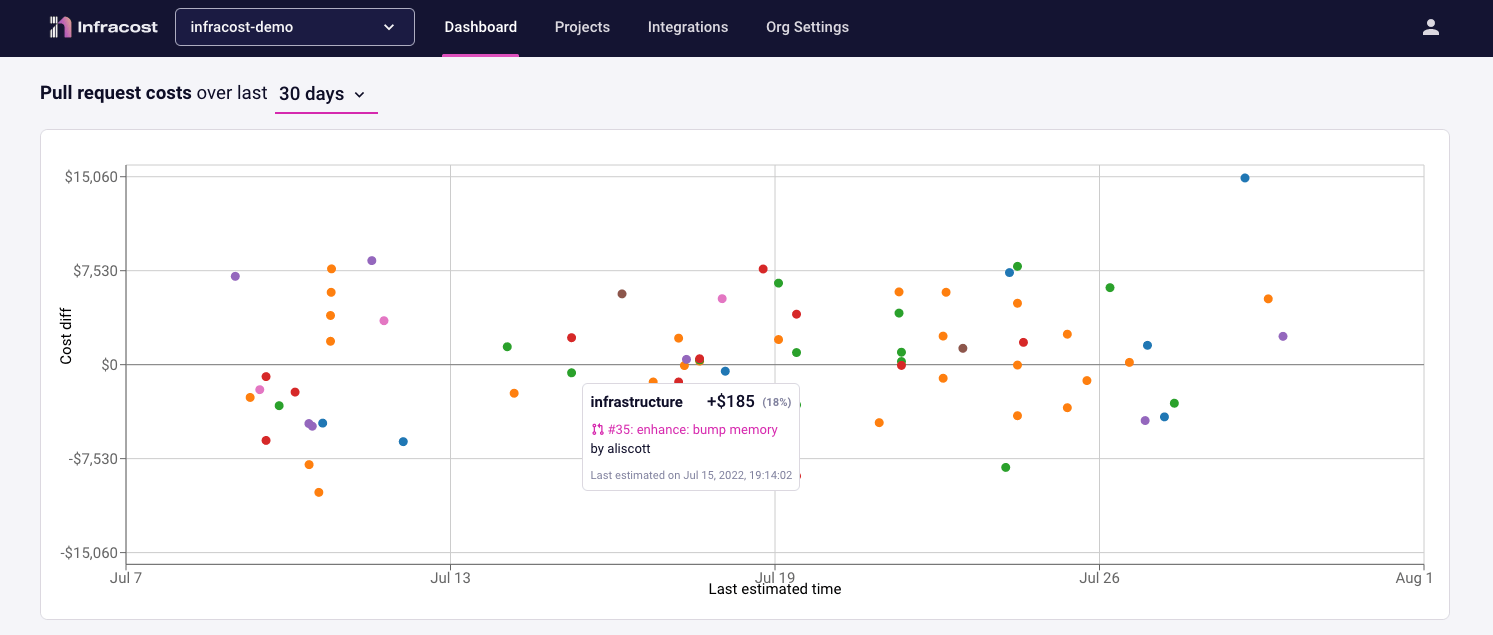
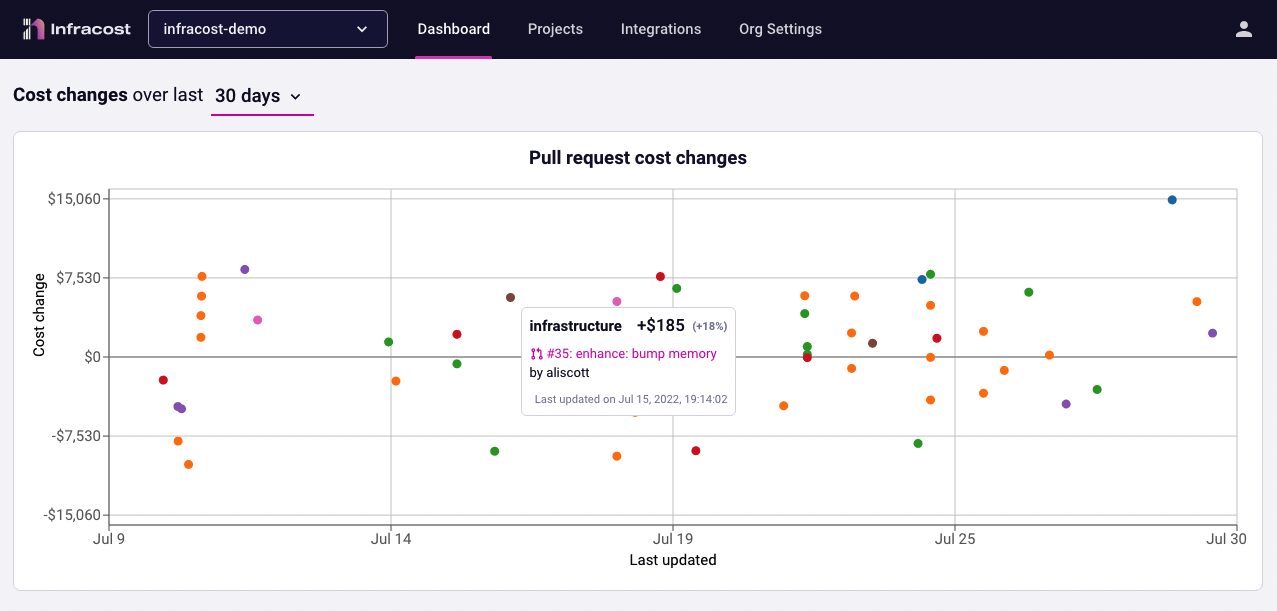
docs: update pricing page

diff --git a/src/pages/pricing.js b/src/pages/pricing.js
@@ -71,22 +71,26 @@ function Pricing() {
                 </li>
                 <li>
                   <span className="icon primary"><Check size={18} /></span>
-                  <span>Support for Enterprise Agreement discounts and custom price books</span>
+                  <span>Custom price books and discounts</span>
                 </li>
                 <li>
                   <span><b>Coming soon:</b></span>
                 </li>
                 <li>
                   <span className="icon primary"><Check size={18} /></span>
-                  <span><a href="https://github.com/infracost/infracost/issues/1727">Notification of budget-breaking pull requests</a></span>
+                  <span>Team management</span>
                 </li>
                 <li>
                   <span className="icon primary"><Check size={18} /></span>
-                  <span>Best practice recommendations directly in pull requests</span>
+                  <span>Weekly email digests and notifications</span>
+                </li>
+                <li>
+                  <span className="icon primary"><Check size={18} /></span>
+                  <span>Recommendations in pull requests</span>
                 </li>
               </ul>
               <div className="action">
-                <a href="/docs/infracost_cloud/get_started" className="button primary">Get started</a>
+                <a href="/docs/infracost_cloud/get_started" className="button primary">Start free trial</a>
               </div>              
             </div>
           </div>

diff --git a/blog/2022-08-09-aug-2022-update.md b/blog/2022-08-09-aug-2022-update.md
@@ -1,13 +1,13 @@
 ---
 slug: aug-2022-update
-title: "July 2022: Infracost Cloud, private registry modules and VSCode tree view!"
+title: "August 2022: Infracost Cloud, VSCode tree view and private registry modules!"
 author: Ali Khajeh-Hosseini
 author_url: https://twitter.com/alikhajeh
 author_image_url: /img/avatars/ali.jpg
-description: TODO
+description: Announcing Infracost Cloud - our SaaS product focused on team leads, managers and FinOps practitioners - and much more!
 hide_table_of_contents: false
 image: img/blog/aug-2022-update/infracost-cloud-dashboard.png
-date: "2022-08-09T00:00:00Z"
+date: "2022-08-10T00:00:00Z"
 ---
 
 import useBaseUrl from '@docusaurus/useBaseUrl';
@@ -22,25 +22,37 @@ Today I'm excited to announce Infracost Cloud - our SaaS product focused on team
 
 ### Save money
 
-Currently companies receive billing alerts after-the-fact. But this is too late as the money has already been spent and the engineers have moved-on to work on other tasks (and rework is painful). Infracost Cloud gives team leads a tight feedback loop: you can review cost estimates from a central place before they hit the bill, and jump into pull request comments to help guide the team. This saves you money as you can catch issues before they hit your bill.
+Currently companies receive billing alerts after-the-fact. But this is too late as the money has already been spent and the engineers have moved-on to work on other tasks (and rework is painful). Infracost Cloud gives team leads a tight feedback loop: you can review cost estimates from a central place **before** they hit the bill.
+
+The dashboard below shows all pull requests over the last 30 days. Each dot is a pull request, dots above the 0-line will increase your costs, and dots below the line will decrease your costs. Dots with the same color are from the same project. You can quickly spot outliers and click on those dots to jump into pull request comments to help guide the team. This saves you money as you can catch issues before they hit your bill. It also gives you a way to provide positive affirmations to the team and acknowledge their cost saving efforts.
 
 <img src={useBaseUrl("img/blog/aug-2022-update/infracost-cloud-dashboard.png")} alt="Infracost Cloud dashboard showing pull request cost changes over the last 30 days" />
 
 ### Save time
 
-Currently it's time consuming for FinOps practitioners to find the cause of a spike or drop in cloud costs as you have to slice-and-dice the bills based on tags, then ask engineering teams if they changed something during the target date range. Infracost Cloud lets FinOps practitioners zoom-in on the target date range and see for themselves if the change was caused by infrastructure changes or user traffic. This saves you time as you can correlate pull requests that increase or decrease costs the most, by how much, and by whom, so you quickly find the right people to talk to. You can also see the context around the pull request, for example the title and commit message, so you can ask better questions when talking to engineering teams.
+Currently it's time consuming for FinOps practitioners to find the cause of a spike or drop in cloud costs as you have to slice-and-dice the bills based on tags, then ask engineering teams if they changed something during the target date range. Infracost Cloud lets FinOps practitioners zoom-in on the target date range and see for themselves if the change was caused by infrastructure changes or user traffic.
+
+This saves you time as you can correlate pull requests that increase or decrease costs the most, by how much, and by whom, so you quickly find the right people to talk to. You can also see the context around the pull request, for example the title and commit message, so you can ask better questions when talking to engineering teams.
 
 ### Custom price books
 
-Infracost Cloud can also be used to setup [custom price books](/docs/infracost_cloud/custom_price_books/) by applying discounts as part of AWS Enterprise Discount Program (EDP), Azure Enterprise Agreements, and Google Commitment Agreement.
+By default, the Infracost CLI uses the public prices from AWS, Azure and Google. Infracost Cloud can be used to setup [custom price books](/docs/infracost_cloud/get_started/#1-sign-up-or-log-in) by applying discounts as part of AWS Enterprise Discount Program (EDP), Azure Enterprise Agreements, and Google Commitment Agreement. Once set, the discounts are used in all CLI outputs, pull requests and Infracost Cloud estimates.
+
+<img src={useBaseUrl("img/blog/aug-2022-update/custom-price-books.png")} alt="Apply discounts as part of AWS Enterprise Discount Program (EDP), Azure Enterprise Agreements, and Google Commitment Agreement" />
 
 ### Free trial
 
-Start your [free trial](/docs/infracost_cloud/get_started/) now or [email me](mailto:hello@infracost.io) if you want a demo!
+Start your [free trial](https://dashboard.infracost.io/) now or [email me](mailto:hello@infracost.io) if you want a demo!
 
 ## Infracost Community
 
 We're continuing our investment in the open source Infracost Community edition and have a lot more planned. Upgrade to the recently released [v0.10.9](/docs/#1-install-infracost) version to use the following new features.
+
+### VSCode extension
+
+The Infracost [VSCode extension](https://github.com/infracost/vscode-infracost) shows cost estimates for Terraform right in your editor. This has been updated to include a tree view so you can see which projects, files and blocks have the most impact to your costs.
+
+<img src={useBaseUrl("img/blog/aug-2022-update/vscode-tree-view.gif")} alt="Infracost VSCode extension tree view" />
 
 ### Private registry modules
 
@@ -66,15 +78,9 @@ Unlike GitHub, GitLab and Azure Repos, pull request comments in Bitbucket do not
 
 The following resources were added: Azure IoT Hub (`azurerm_iothub_dps`) and Virtual Network peering (`azurerm_virtual_network_peering`), AWS RDS `oracle-se2-cdb` and `oracle-ee-cdb` engine types.
 
-### VSCode extension
-
-The Infracost [VSCode extension](https://github.com/infracost/vscode-infracost) shows cost estimates for Terraform right in your editor. This has been updated to include a tree view so you can see which projects, files and blocks have the most impact to your costs.
-
-<img src={useBaseUrl("img/blog/aug-2022-update/vscode-tree-view.gif")} alt="Infracost VSCode extension tree view" />
-
 ## Community content
 
-Many thanks to the following first time contributors: [@philharle](https://github.com/philharle), and [@jessecureton](https://github.com/jessecureton), [@sawyerw-mastery](https://github.com/sawyerw-mastery), [@jauderho](https://github.com/jessecureton). Also shout-out to the following people for sharing their Infracost knowledge with the rest of the community - [InfraSocks](https://twitter.com/AliKhajeh/status/1510310791508946945) are coming your way!
+Many thanks to the following first time contributors: [@philharle](https://github.com/philharle), and [@jessecureton](https://github.com/jessecureton), [@sawyerw-mastery](https://github.com/sawyerw-mastery), [@jauderho](https://github.com/jauderho). Also shout-out to the following people for sharing their Infracost knowledge with the rest of the community - [InfraSocks](https://twitter.com/AliKhajeh/status/1510310791508946945) are coming your way!
 - [Seif Bassem](https://www.linkedin.com/in/seif-bassem/): [Estimate your Infrastructure-as-code costs before deploying](https://www.seifbassem.com/blogs/posts/iaac-cost/)
 - [Pete Mallam](https://www.linkedin.com/in/thisisthetechie/): [Azure Pipelines, InfraCost and the dreaded 403 error](https://www.linkedin.com/pulse/azure-pipelines-infracost-dreaded-403-error-pete-mallam)
 - [Rahul Soni](https://www.linkedin.com/in/rahul-soni-6592811b2/): [Cost Monitoring & Insights with Kubecost & Infracost](https://youtu.be/rqMF4v5lovA?t=499)
@@ -83,6 +89,6 @@ Many thanks to the following first time contributors: [@philharle](https://githu
 
 ## In-Person-Week (IPW)
 
-Finally, our all-remote team was in Edinburgh, Scotland for our first In-Person-Week. This is different to our [Recurring Employee Meetup (REM)](/blog/may-2022-update/#recurring-employee-meetup-rem) as we just show-up to an office for a week and do our regular work. AWS put the cherry on our in-person-week cake by featuring Infracost in their inaugural [Build On AWS weekly](https://www.twitch.tv/videos/1531644457?t=0h50m23s) Twitch livestream!
+Finally, our all-remote team was in Edinburgh, Scotland for our first In-Person-Week. This is different to our [Recurring Employee Meetup (REM)](/blog/may-2022-update/#recurring-employee-meetup-rem) as we just show-up to an office for a week and do our regular work. AWS put the cherry on our in-person-week cake by featuring Infracost in their inaugural [Build On AWS](https://www.twitch.tv/videos/1531644457?t=0h50m23s) Twitch livestream!
 
-<img src={useBaseUrl("img/blog/aug-2022-update/aws-twitch.jpeg")} alt="AWS Twitch livestream" />
+<img src={useBaseUrl("img/blog/aug-2022-update/aws-twitch.jpeg")} alt="Infracost featured on the inaugural Build On AWS Twitch livestream" />

diff --git a/docs/infracost_cloud/get_started.md b/docs/infracost_cloud/get_started.md
@@ -5,17 +5,15 @@ title: Get started
 
 import useBaseUrl from '@docusaurus/useBaseUrl';
 
-Infracost Cloud is our new hosted service. It enables team leads, managers and FinOps practitioners to have visibility across all cost estimates in CI/CD and answer questions like:
+Infracost Cloud is our SaaS product focused on team leads, managers and FinOps practitioners. Read our [announcement blog](/blog/aug-2022-update/) to learn about its benefits. It gives you visibility across all cost estimates and lets you and answer questions like:
 1. What are the top pull requests that are going to increase/decrease costs the most? Who is working on them?
 2. What were all the pull requests to the `main` branch on the date we had a spike in cloud costs?
-
-We're also working on enabling team leads to setup notifications of budget-breaking pull requests, and best practice recommendations directly in pull requests. Contact hello@infracost.io if you'd like to learn more.
 
 <img src={useBaseUrl("img/infracost-cloud/dashboard.png")} alt="Team visibility across all changes" />
 
 ### 1. Sign up or log in
 
-Go to [Infracost Cloud](https://dashboard.infracost.io) to sign up or log in.
+Go to [Infracost Cloud](https://dashboard.infracost.io) to sign up or log in to start your free trial (no credit card is needed).
 
 ### 2. Create new organization
 
@@ -33,7 +31,6 @@ Every Infracost user has a default organization for personal use. Create a new o
   <img src={useBaseUrl("img/infracost-cloud/org-api-key-tick.png")} alt="Get organization API key" />
 </ol>
 
-
 ### 4. Update API key in CI/CD
 
 If you are **already running Infracost in your CI/CD system**: 
@@ -48,8 +45,8 @@ Send a new pull request to change something in Terraform that costs money, you s
 
 ### 6. See cost estimate in Infracost Cloud
 
-Go to [**Infracost Cloud**](https://dashboard.infracost.io) > **your organization** > **Dashboard** to see your pull request on the chart and cost breakdowns by user, project and pull request. Your dashboard gives you visibility across all changes across pull requests and code repos. Clicking on the chart's dot opens a new tab with the corresponding pull request page if you want to take a closer look.
+Go to [**Infracost Cloud**](https://dashboard.infracost.io) > **your organization** > **Dashboard** to see your pull request on the chart and cost breakdowns by user, project and pull request. The dashboard provides visibility across all cost changes, clicking on the chart dots opens a new tab with the corresponding pull request so you can investigate deeper or talk to the people working on the change.
 
 If you run into any issues, please join our [community Slack channel](https://www.infracost.io/community-chat), we'll help you very quickly 😄
 
-<img src={useBaseUrl("img/infracost-cloud/dashboard-chart.png")} alt="Dashboard chart with tooltips" />
+<img src={useBaseUrl("img/infracost-cloud/dashboard-chart.png")} alt="Infracost Cloud dashboard showing pull request cost changes over the last 30 days" />

diff --git a/docs/getting_started.md b/docs/getting_started.md
@@ -170,7 +170,7 @@ Example output:
 
   <li>
     Log in to <a href="https://dashboard.infracost.io">Infracost Cloud</a> to see the cost estimate:
-    <img src={useBaseUrl("img/screenshots/get-started-infracost-cloud.png")} alt="Infracost Cloud provides team visibility across all changes so you can see pull requests that increase/decrease costs the most." />
+    <img src={useBaseUrl("img/infracost-cloud/dashboard-chart.png")} alt="Infracost Cloud dashboard showing pull request cost changes over the last 30 days" />
   </li>
 
 </ol>
